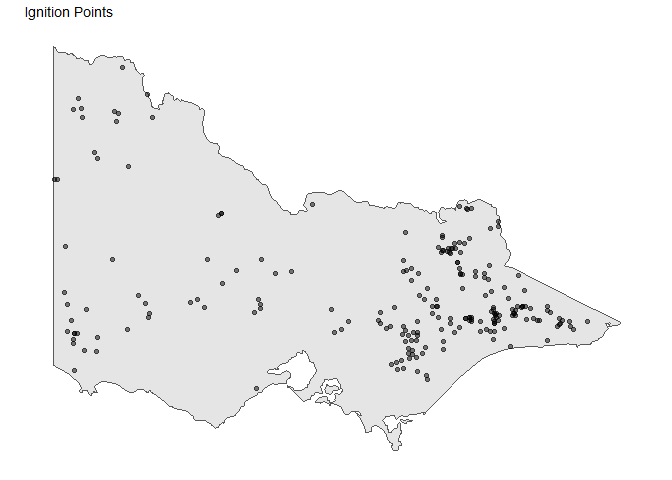
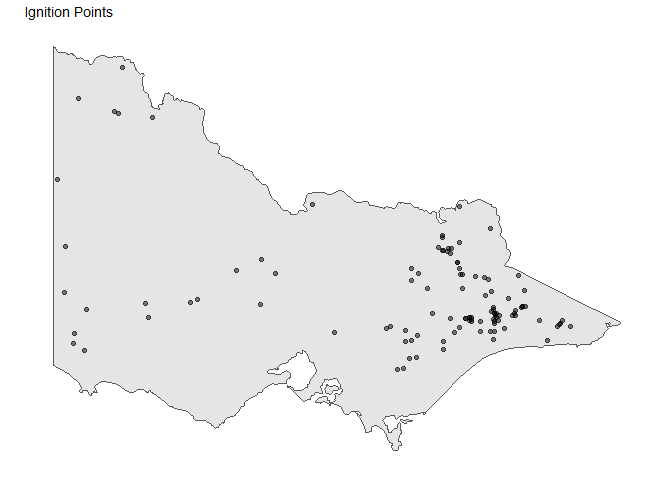
handle noises

diff --git a/README.md b/README.md
@@ -90,7 +90,7 @@ results <- hotspot_cluster(hotspots5000,
 #> Transform time_id <U+2713> 
 #> Clustering <U+2713> 
 #> Compute ignition points <U+2713> 
-#> Time taken: 0 mins 43 secs for 5000 obs (0.009 secs/obs)
+#> Time taken: 0 mins 34 secs for 5000 obs (0.007 secs/obs)
 ```
 
 The ignition points of the first 10 bushfires.
@@ -103,28 +103,36 @@ results$ignitions[1:10,]
 #> 3       141.480    -37.34000 2019-10-02 03:00:00
 #> 4       147.160    -37.85000 2019-10-02 04:40:00
 #> 5       148.120    -37.57999 2019-10-02 04:50:00
-#> 6       144.180    -38.35000 2019-10-02 06:10:00
-#> 7       143.580    -36.15000 2019-10-02 23:00:00
-#> 8       143.140    -37.25999 2019-10-03 01:00:00
-#> 9       141.150    -36.54000 2019-10-03 04:30:00
-#> 10      143.360    -37.32000 2019-10-03 06:00:00
+#> 6       143.140    -37.25999 2019-10-03 01:00:00
+#> 7       141.150    -36.54000 2019-10-03 04:30:00
+#> 8       148.435    -37.10000 2019-10-06 04:00:00
+#> 9       144.240    -37.28000 2019-10-14 21:40:00
+#> 10      143.870    -36.84000 2019-10-21 02:10:00
 ```
 
 The memberships of the first 10 hotspots.
 
 ``` r
 results$hotspots[1:10,]
-#>       lon    lat             obstime memberships
-#> 1  141.12 -37.10 2019-10-01 03:20:00           1
-#> 2  141.14 -37.10 2019-10-01 03:20:00           1
-#> 3  141.12 -37.12 2019-10-01 03:20:00           1
-#> 4  141.14 -37.12 2019-10-01 03:20:00           1
-#> 5  141.16 -37.12 2019-10-01 03:20:00           1
-#> 6  141.12 -37.14 2019-10-01 03:20:00           1
-#> 7  141.14 -37.14 2019-10-01 03:20:00           1
-#> 8  141.16 -37.14 2019-10-01 03:20:00           1
-#> 9  141.12 -37.16 2019-10-01 03:20:00           1
-#> 10 141.14 -37.16 2019-10-01 03:20:00           1
+#>       lon    lat             obstime memberships noise
+#> 1  141.12 -37.10 2019-10-01 03:20:00           1 FALSE
+#> 2  141.14 -37.10 2019-10-01 03:20:00           1 FALSE
+#> 3  141.12 -37.12 2019-10-01 03:20:00           1 FALSE
+#> 4  141.14 -37.12 2019-10-01 03:20:00           1 FALSE
+#> 5  141.16 -37.12 2019-10-01 03:20:00           1 FALSE
+#> 6  141.12 -37.14 2019-10-01 03:20:00           1 FALSE
+#> 7  141.14 -37.14 2019-10-01 03:20:00           1 FALSE
+#> 8  141.16 -37.14 2019-10-01 03:20:00           1 FALSE
+#> 9  141.12 -37.16 2019-10-01 03:20:00           1 FALSE
+#> 10 141.14 -37.16 2019-10-01 03:20:00           1 FALSE
+```
+
+``` r
+ggplot(results$ignitions) +
+  geom_sf(data = vic_map) +
+  geom_point(aes(ignition_lon, ignition_lat), alpha = 0.5) +
+  ggthemes::theme_map() +
+  ggtitle("Ignition Points")
 ```
 
 <img src="man/figures/README-unnamed-chunk-9-1.png" width="70%" height="70%" />
@@ -133,7 +141,12 @@ Summary of the clustering result.
 
 ``` r
 summary(results)
-#> Number of clusters: 217
+#> Clusters:
+#>     total    110 
+#>     ave obs  43.6 
+#>     ave time 16.3 hours 
+#> Noises:
+#>     prop     4    %
 ```
 
 Plot of the result.
